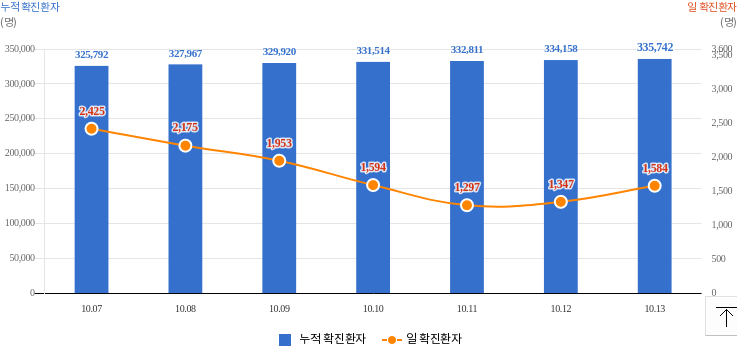
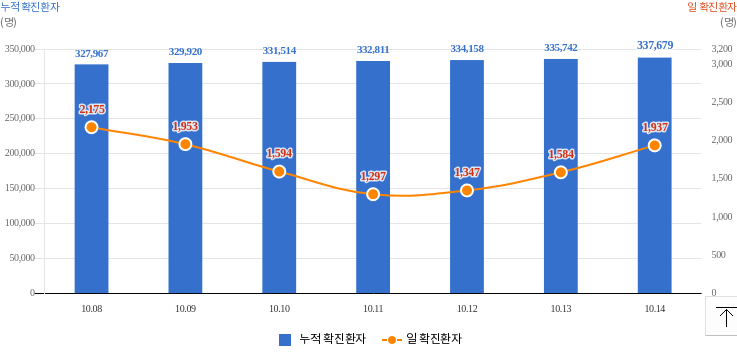
Run crawler and update current data

diff --git a/data.js b/data.js
@@ -7,7 +7,7 @@ var 검사중 = '1,444';
 var 검사결과 = '469,602';
 var 자가격리자 = '502';
 var 거리두기단계 = '사회적 거리두기  3단계 시행 : 2021.10.4.(월) 0시 ~ 10.17.(일) 24시';
-var 국내발생 = '1,571';
-var 해외발생 = '13';
-var 합계 = '1584';
+var 국내발생 = '1,924';
+var 해외발생 = '16';
+var 합계 = '1940';
 var data = [];
